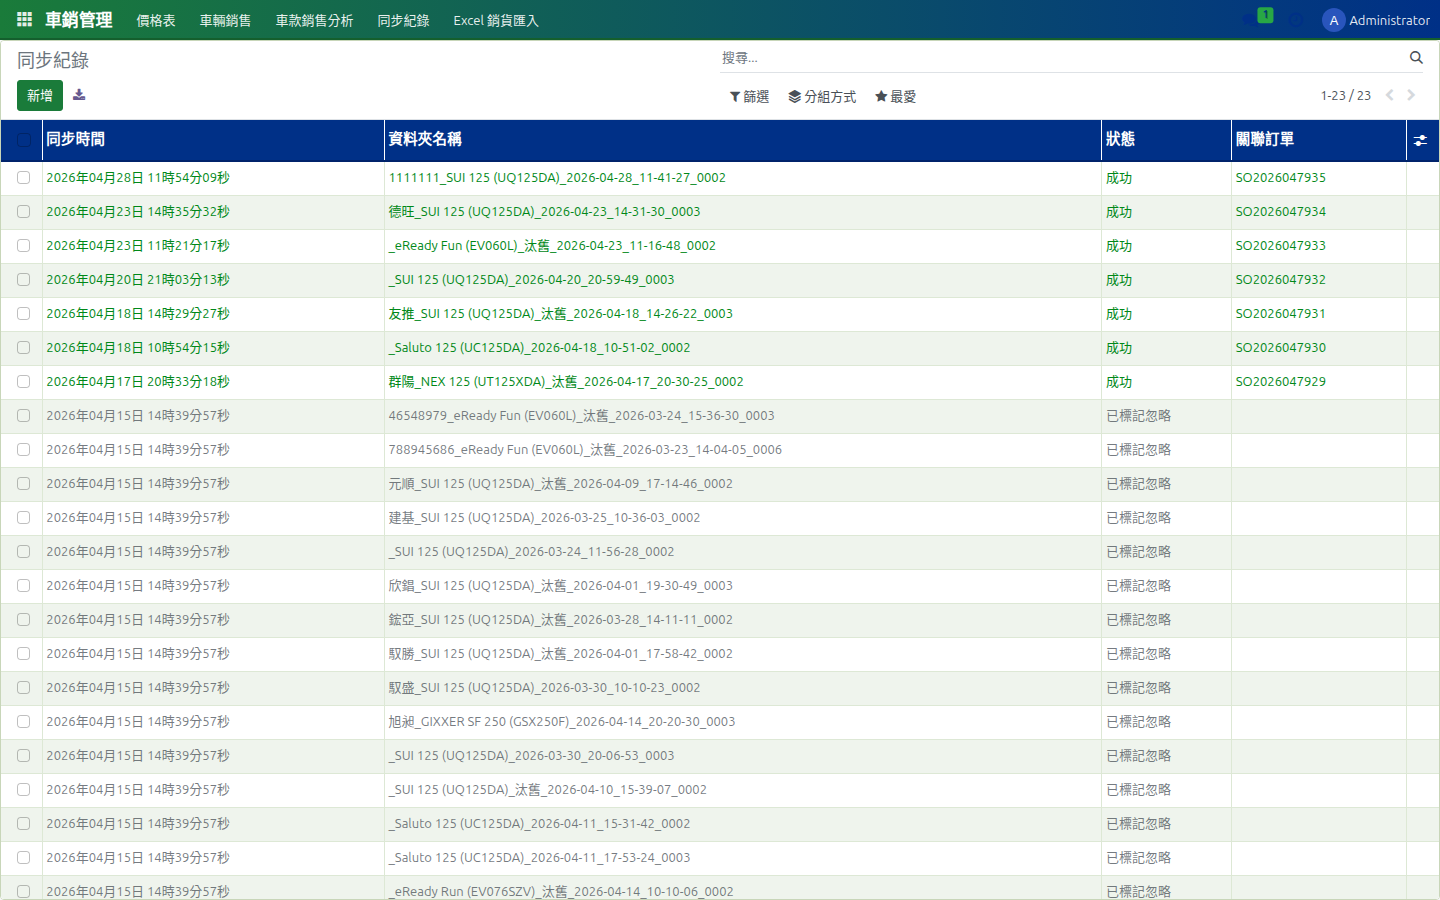
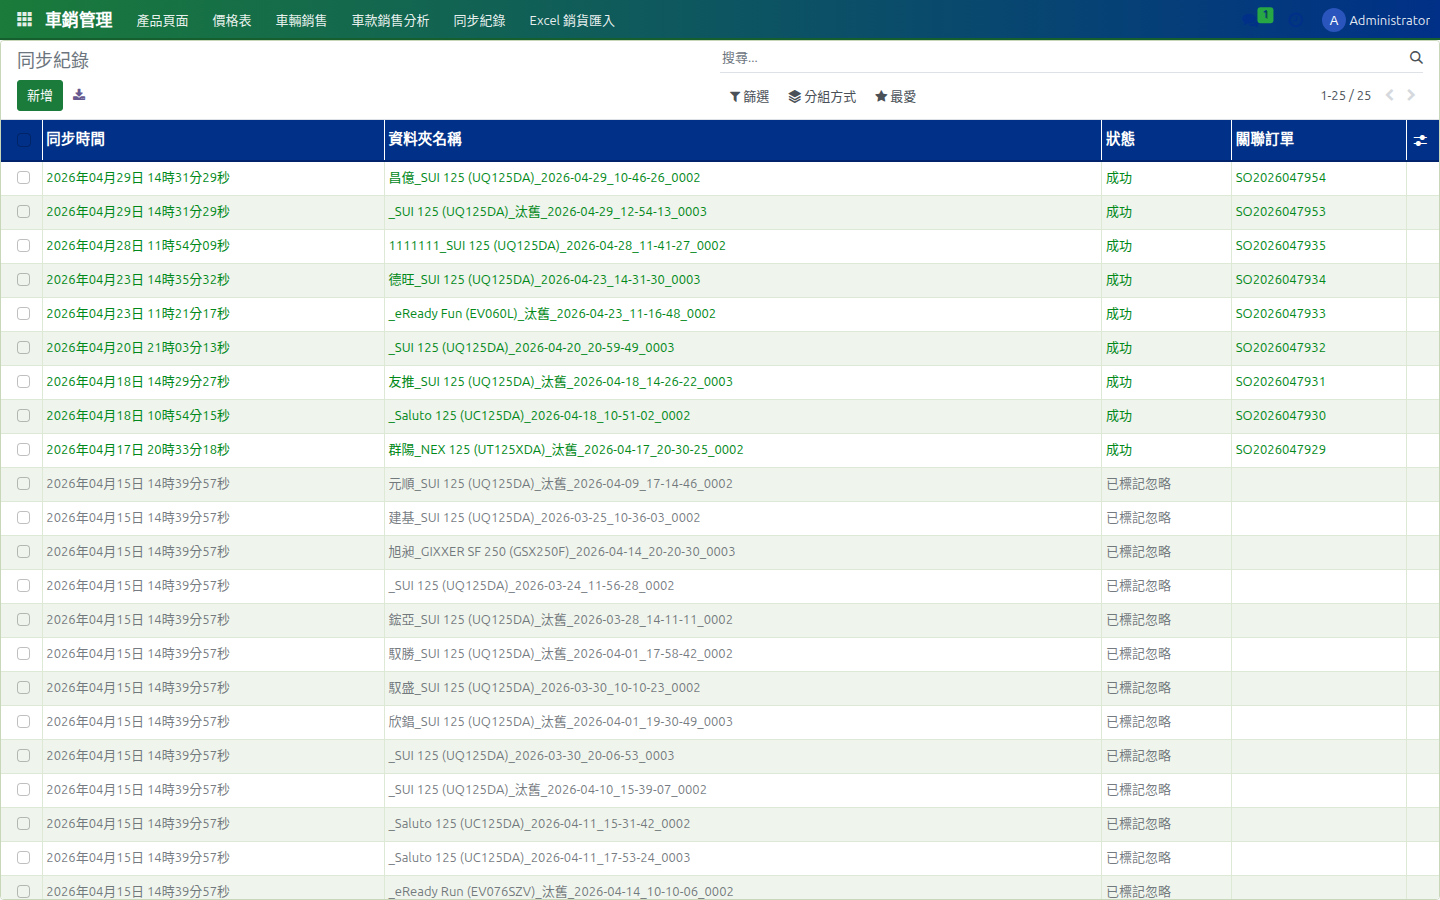
docs(015): 06 進度補上 v5 第 3 章對齊現況之變更紀錄

diff --git a/specs/015-dms-product-rebuild/06-progress-2026-04-29.md b/specs/015-dms-product-rebuild/06-progress-2026-04-29.md
@@ -70,4 +70,10 @@ docker compose ps
 - `specs/022-orderprocessor-sync/01-spec.md`：已補 xlsx fallback、重新同步段落
 - `specs/015-dms-product-rebuild/04-tasks.md`：已新增 Phase 10
 - 本檔（`06-progress-2026-04-29.md`）：本日異動彙總
-- `output_report/DMIS_專案進度報告_v5.docx`：以 `scripts/build_progress_report.py` 重新產出，新增獨立章節「3. 產品管理（DMS Product）」（產品頁面、車型價格表、價目版本與複製、分期規則模板/費用類型/規則掛接），章節重編號為 4 車銷管理 / 5 銷售分析 / 6 佣金管理 / 7 零件管理 / 8 使用者管理 / 9 驗證；補拍截圖 `24_sync_log_form` / `26_installment_rule` / `27_fee_type` / `28_rule_binding`。
+- `output_report/DMIS_專案進度報告_v5.docx`：以 `scripts/build_progress_report.py` 重新產出，新增獨立章節「3. 產品主檔（DMS Product，選單位於『車銷管理』下）」，內容對齊現況：
+  - 3.1 產品頁面（模板）：兩欄 group + inline 「產品項」tree（含 fa-copy 複製按鈕，年份重製情境）；菜單路徑「車銷管理 → 產品頁面」（dms_product 新增 `action_product_template_master` id=500 與選單，commit 880fd96）。
+  - 3.2 價格表（SKU 完整清單）：sticky 機種欄、fa-external-link 「開啟詳細資料」按鈕；菜單路徑「車銷管理 → 價格表」。
+  - 3.3 分期規則模板 / 費用類型 / 規則掛接：明確標註現階段為後台資料表，無菜單入口，僅可由 `action=145 / 146 / 147` 進入；下一階段再評估在「車銷管理」或「設定」下佈置選單。
+  - 章節重編號為 4 車銷管理 / 5 銷售分析（Metabase）/ 6 佣金管理 / 7 零件管理 / 8 使用者管理 / 9 驗證；4 章 intro 改指引「產品主檔請見 3.」。
+  - 1.3 涵蓋範圍同步去除已不存在的「價目版本」描述。
+  - 補拍 `20_template_list/form`、`21_pricetable_list/form`、`24_sync_log_form`、`26_installment_rule`、`27_fee_type`、`28_rule_binding`，並重拍全部截圖（commit 4904754 / 5d621b1 / 5b94b4f）。
